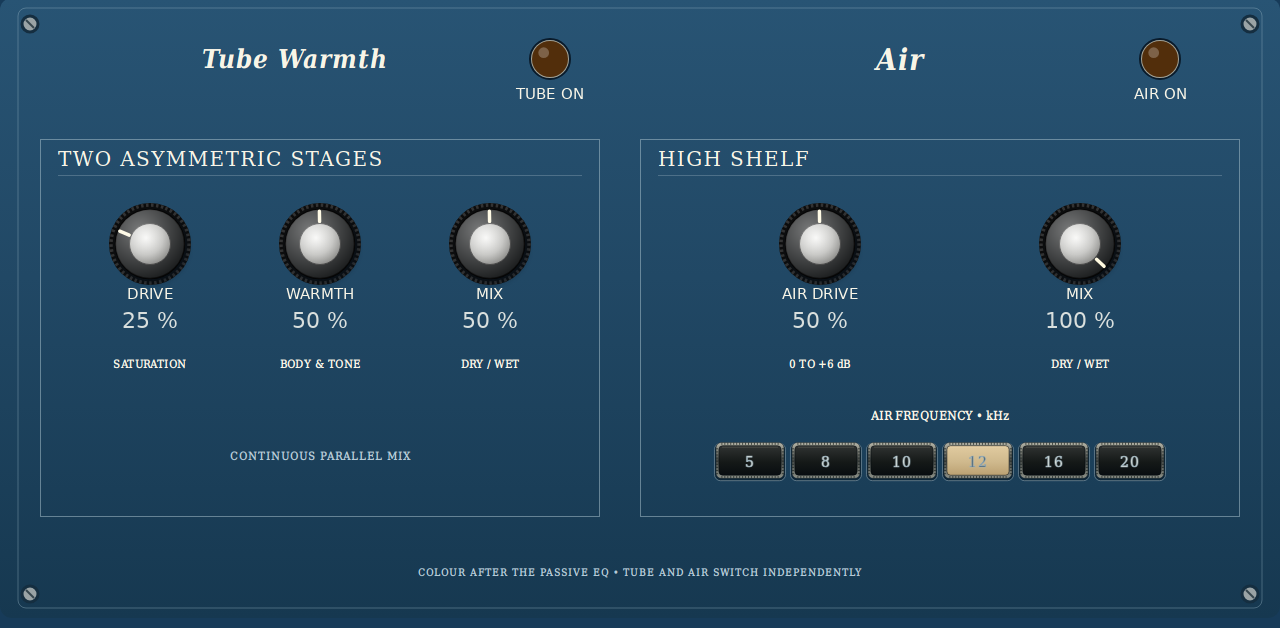
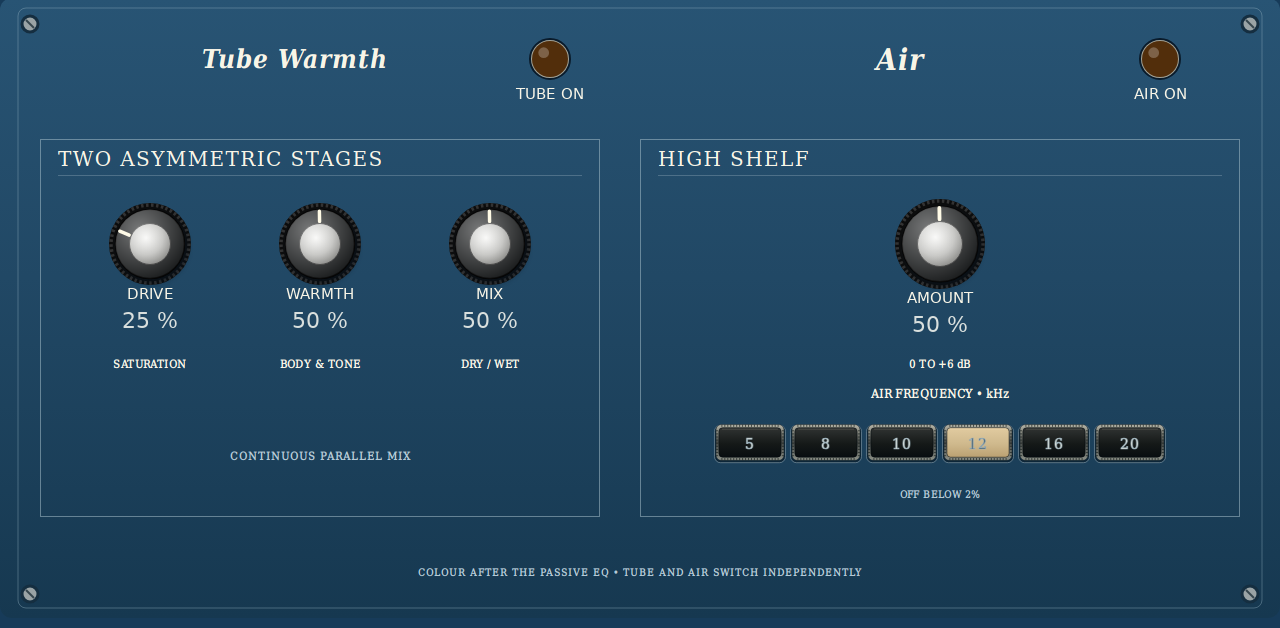
Document all eight preset categories and preview every tab

diff --git a/docs/PRESETS.md b/docs/PRESETS.md
@@ -1,0 +1,79 @@
+# Factory presets
+
+49 original starting points: Init plus six presets in each of eight categories. Select them in the native PRESET menu or desktop host program list. Every program recalls all 32 controls; no previous side/tube/AIR settings leak into the next program.
+
+These are tonal starting points, not automatic repair, compression, de-essing or limiting. Mastering presets do not guarantee loudness or true-peak compliance. Begin with headroom, match bypass loudness with OUTPUT and listen in mono when widening. Width cannot create stereo from mono. Side cleanup uses bell filters, not a bass mono crossover. Tube colour changes with input level.
+
+Original settings, inspired by [Universal Audio’s Pultec techniques](https://www.uaudio.com/blogs/ua/pultec-collection-tips-and-tricks) (interacting boost/attenuation and bus/instrument shaping) and [AIR Flavor Pro](https://www.airmusictech.com/effects/flavor-pro/) (parallel vintage colour and stereo width). No commercial preset files are copied; these are not emulations of those products.
+
+## Voice
+
+- **Clean** — Gentle low cleanup and presence; no saturation.
+- **60s** — Warm, darker period colour.
+- **Intimate** — Quiet warmth for close vocals.
+- **Silk Air** — High air with restrained tube colour.
+- **Forward** — Broad presence for a recessed vocal.
+- **Dark Edge** — Creative gritty vocal colour; stronger drive.
+
+## Drums
+
+- **Smash Bassdrum** — Aggressive kick weight and saturated attack; not compression.
+- **Kick Tight** — Classic simultaneous low boost/attenuation.
+- **Snare Crack** — Body and upper attack with parallel colour.
+- **Hats Silk** — Softens brittle hats with a little upper air.
+- **Toms Weight** — Round body for toms and percussion.
+- **Room Wide** — Room width, reduced side bass and airy colour.
+
+## Bass
+
+- **Sub Round** — Low extension for a thin sub.
+- **Electric Warm** — Rounded electric bass colour.
+- **Pick Detail** — Upper harmonics and pick articulation.
+- **Synth Growl** — Strong parallel drive for synth bass.
+- **Upright Body** — Subtle acoustic bass body.
+- **Center Solid** — Reduces stereo bass spread; not a mono crossover.
+
+## Guitar
+
+- **Acoustic Shine** — Open acoustic sparkle.
+- **Electric Body** — Body and moderate tube colour.
+- **Jazz Velvet** — Dark rounded jazz tone.
+- **Bright Tame** — Broad top attenuation for harsh guitar.
+- **Lead Lift** — Presence and coloured lead harmonics.
+- **Stereo Spark** — Air and width on an existing stereo guitar.
+
+## Keys
+
+- **Piano Open** — Gentle acoustic piano openness.
+- **Rhodes Velvet** — Warm electric piano body.
+- **Organ Grit** — Driven organ colour.
+- **Pads Wide** — Wide airy pads with restrained side bass.
+- **Synth Bite** — Bright synthetic attack.
+- **Strings Silk** — Soft body and high air for strings.
+
+## Bus
+
+- **Drum Weight** — Low punch and parallel drum colour.
+- **Vocal Blend** — Gentle shared vocal tone.
+- **Music Polish** — Broad musical balance.
+- **Parallel Heat** — Strong drive blended quietly.
+- **Room Focus** — Pulls ambient bus sides inward.
+- **Top Open** — Open upper bus tone.
+
+## Master
+
+- **Light** — Small broad polish; tonal mastering only.
+- **Hard Colour** — Stronger character, not a loudness maximizer.
+- **Air** — Restrained high shelf for dull mixes.
+- **Smile** — Broad low/high lift relative to the mids.
+- **Warm** — Subtle warmth and softer top.
+- **Wide Polish** — Small stereo expansion and restrained air.
+
+## Stereo
+
+- **Side Cleanup** — Broad side bass/mud reduction.
+- **Wide Air** — Existing stereo ambience lifted and widened.
+- **Center Focus** — Narrower, more centered image.
+- **Side Warm** — Darker sides with overall tube warmth.
+- **Room Clarity** — Side mid cleanup and ambience detail.
+- **Mono Check** — Mono fold-down to check the existing stereo mix.

diff --git a/docs/VALIDATION.md b/docs/VALIDATION.md
@@ -11,7 +11,7 @@ Checked locally on 10 October 2026:
 - ASan/UBSan native host tests: parameters, selectors/data-wheel/Q-Links, independent instances, NULL input,
   accumulated processing, state and concurrent screen/audio access.
 - ARM ELF32 EABI hard-float, Cortex-A17, exported VSTPluginMain, maximum glibc 2.29; C++ runtime linked statically.
-- ARM QEMU smoke test against the owner's existing extracted Force 3.9.1 system libraries: dlopen, 35 parameters,
+- ARM QEMU smoke test against the owner's existing extracted Force 3.9.1 system libraries: dlopen, 34 parameters,
   48 kHz, 257-frame floating-point audio, exact bypass, combined processing, state, reset and destruction.
 - Native skin bounds, bindings, three pages and Q-Link assets; offline visual inspection. Actual touch operation
   and live meter update on hardware are not established by these tests.
@@ -35,3 +35,7 @@ boundaries; abrupt filter changes can click. Keep headroom when boosting; the fl
 
 The optional Linux VST3 is a separate build target. Its CI build result should be checked before distributing it;
 its editor is the host-style JUCE generic editor, and it has not been loaded on Force.
+
+rc3: AIR Amount below 2% turns AIR off and prevents enabling it; exact bypass tested at 0%, 1% and 1.999%. Exactly 2% remains usable, and 100% produces the expected +6 dB shelf. Native rc1/rc2 chunks migrate to the new Amount control. Legacy rc2 partial mixes preserve asymptotic shelf gain, with an approximate transition curve.
+
+Factory bank validation renders every preset at 44.1/48/96 kHz after conflicting settings, verifies all 32 recalled values, finite non-silent stereo output and peak below 1 for the specified low-level multitone. This is a deterministic headroom check, not an audition or a guarantee for arbitrary source levels.

diff --git a/docs/RELEASE.md b/docs/RELEASE.md
@@ -2,7 +2,7 @@ PulyTek is a separate open-source Pultec-style EQ port for the native Akai Force
 
 - Blue vintage panel, Bakelite-style knobs, ribbed selector buttons, warm lamps and stereo VU meters.
 - Upstream EQP-WDF-1A passive WDF circuit by Alberto Barrera / ABSounds, GPLv3.
-- Extra tube-colour switch with DRIVE, WARMTH and continuous wet/dry MIX, six-frequency AIR shelf with continuous DRIVE and MIX, output trim and full bypass.
+- Extra tube-colour switch with DRIVE, WARMTH and continuous wet/dry MIX, six-frequency AIR shelf with one continuous AMOUNT control, output trim and full bypass.
 - Side Mixing on/off, 0–200% stereo width, side level and four side-only parametric bands.
 - Native ARMv7 hard-float VST2 effect, Akai TUI skin, Q-Link mappings, portable installer and complete corresponding source.
 
@@ -13,3 +13,7 @@ system libraries; that is not a physical-device compatibility guarantee. Read RE
 The portable ZIP is for Force/MPC; the optional desktop Linux VST3 is a separate CI artifact and is not installed on Force.
 
 0.1.0-rc2 adds a combined Tube & AIR page with Drive and Mix controls. Legacy rc1 tube/EQ state chunks load with the original +3 dB, fully wet AIR defaults.
+
+0.1.0-rc3 removes the redundant AIR Mix knob, renames AIR Drive to Amount and turns AIR off below 2%. Tube controls are unchanged. Legacy native state migrates; rc2 partial AIR mixes preserve high-frequency gain approximately through the shelf transition.
+
+49 original factory programs: Init and six each for Voice, Drums, Bass, Guitar, Keys, Bus, Master and Stereo. Native PRESET menu and desktop VST3 program support; complete control recall, including AIR amount before enable. Includes Drums Smash Bassdrum and Master Light / Hard Colour / Air / Smile / Warm / Wide Polish.

diff --git a/docs/INSTALL.md b/docs/INSTALL.md
@@ -1,10 +1,10 @@
-# Install PulyTek 0.1.0-rc2
+# Install PulyTek 0.1.0-rc3
 
 Experimental release candidate for Akai Force / MPC Gen1 running OpenPlugin-compatible firmware.
 The plugin has passed desktop DSP/host tests and ARM emulated loading against Force 3.9.1 libraries.
 **This release has not been tested on physical Force or MPC hardware.**
 
-1. Download `PulyTek-0.1.0-rc2-mpc-armv7.zip` and its SHA256 file from this project's GitHub release.
+1. Download `PulyTek-0.1.0-rc3-mpc-armv7.zip` and its SHA256 file from this project's GitHub release.
 2. Verify the ZIP checksum, unpack the whole folder and copy it to your device.
 3. Save your project. The installer stops/restarts the MPC application and backs up its settings.
 4. In a device root shell, run `sh install.sh` inside the unpacked folder. Use `-y` only to skip its confirmation.
